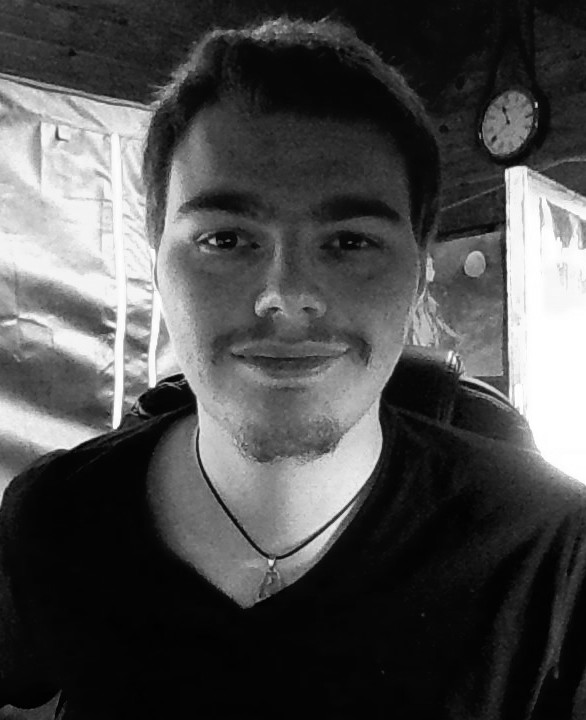
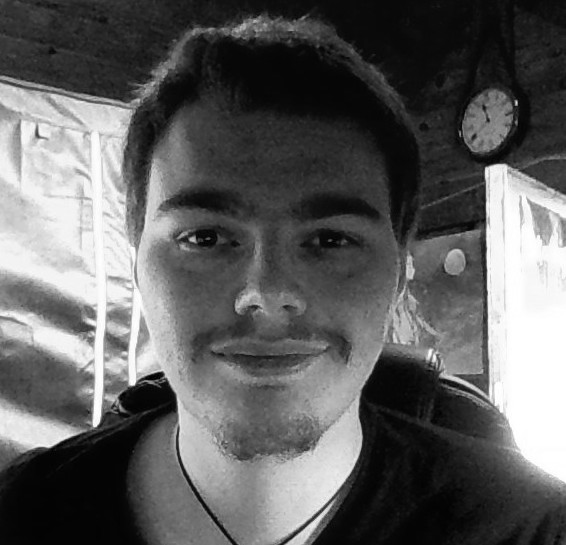
Ajout des ligne sous les titres , création de class pour les titres, nettoyage de certaines lignes inutiles , redimension de la photo, ajout de contenu

diff --git a/index.html b/index.html
@@ -13,9 +13,9 @@
 <body>
 	<div class="container" >
 		<div class="row" style="border: solid 1px grey;">
-			<div id="block1" class="col-xs-3 col-md-4 col-xl-3" style="background-color: rgb(255,193,7);">
-				<img src="photo.jpg" class="img-fluid rounded-circle img-responsive">
-				<h5>CONTACT</h5>
+			<div id="block1" class="col-xs-3 col-md-4 col-lg-3" style="background-color: rgb(255,193,7);"><!-- Bloc de gauche du CV !!!!!!! -->
+				<img src="photo.jpg" class="img-fluid rounded-circle img-responsive" style="width: 65%; margin-left: 15%">
+				<h3>CONTACT</h3>
 				<p>Adresse</br>
 				Marquise, France</br>
 				</br>
@@ -25,18 +25,86 @@
 				Site Web</br>
 				www.name.com</br>
 				</br>
-				<span class="glyphicon glyphicon-search" aria-hidden="true"></span>Skype</br>
+				Skype</br>
 				@nom_utilisateur 
 				</p>
-				<h5>A PROPOS DE MOI</h5>
+				<h3>A PROPOS DE MOI</h3>
 				<p>Voici un paragraphe qui parle de moi de façon générale</p>
 			</div>
-			<div id="block2" class="col-xs-9 col-md-8 col-xl-7" style="margin: 5%">
-			<h1><span class="color_theme">Florent</span> NOEL</h1>
-				<h3><span class="underline">Dévelo</span>ppeur web</h3>
-				<h4><i class="fas fa-graduation-cap color_theme"></i> Formation</h4>
-				<h4><i class="fas fa-briefcase color_theme"></i> Expérience professionelle</h4>
-				<h4><i class="fas fa-pencil-alt color_theme"></i> Recommandations</h4>
+			<div id="block2" class="col-xs-9 col-md-8 col-lg-9"> <!-- Bloc principal du CV (droite)!!!!!! -->
+				<div id="container_main">
+					<h1 class="titre1"><span class="color_theme">FLORENT</span> NOEL</h1>
+					<h6 style="color: rgb(66,66,66); font-size: 35px;"><span class="underline">Dévelo</span>ppeur web</h6>
+					<h4 style="margin-top: 100px;"><i class="fas fa-graduation-cap color_theme"></i> Formation</h4>
+					<div class="block_main">
+						<div class="block_contenu">
+								<div class="dates">
+									<i class="far fa-dot-circle color_theme "></i>
+										2016 - 2017</br>
+										Paris
+								</div>
+								<div class="contenu_formation">
+									<h4>OPENCLASSROOM</h4>
+									<h5>Junior Web développeur</h5>
+									<p>To aru no matjustu no index accelerator no railgun tsukio no matsu in namo index</p>
+								</div>
+						</div>
+						<div class="block_contenu">
+								<div class="dates">
+									<i class="fas fa-circle color_theme"></i>
+										2016 - 2017</br>
+										Paris
+								</div>
+								<div class="contenu_formation">
+									<h4>OPENCLASSROOM</h4>
+									<h5>Junior Web développeur</h5>
+									<p>To aru no matjustu no index accelerator no railgun tsukio no matsu in namo index</p>
+								</div>
+						</div>
+						<div class="block_contenu">
+								<div class="dates">
+									<i class="fas fa-circle color_theme"></i>
+										2016 - 2017</br>
+										Paris
+								</div>
+								<div class="contenu_formation">
+									<h4>OPENCLASSROOM</h4>
+									<h5>Junior Web développeur</h5>
+									<p>To aru no matjustu no index accelerator no railgun tsukio no matsu in namo index</p>
+								</div>
+						</div>
+					</div>
+					<h4><i class="fas fa-briefcase color_theme"></i> Expérience professionelle</h4>
+					<div class="block_main">
+						<div class="block_contenu">
+								<div class="dates">
+									<i class="far fa-dot-circle color_theme "></i>
+										2016 - 2017</br>
+										Paris
+								</div>
+								<div class="contenu_formation">
+									<h4>OPENCLASSROOM</h4>
+									<h5>Junior Web développeur</h5>
+									<p>To aru no matjustu no index accelerator no railgun tsukio no matsu in namo index</p>
+								</div>
+						</div>
+					</div>
+					<h4><i class="fas fa-pencil-alt color_theme"></i> Recommandations</h4>
+					<div class="block_main">
+						<div class="block_contenu">
+								<div class="dates">
+									<i class="far fa-dot-circle color_theme "></i>
+										2016 - 2017</br>
+										Paris
+								</div>
+								<div class="contenu_formation">
+									<h4>OPENCLASSROOM</h4>
+									<h5>Junior Web développeur</h5>
+									<p>To aru no matjustu no index accelerator no railgun tsukio no matsu in namo index</p>
+								</div>
+						</div>
+					</div>
+				</div>
 			</div>
 		</div>
 	</div>

diff --git a/style.css b/style.css
@@ -4,5 +4,36 @@
 }
 .underline
 {
-	text-decoration: underline rgb(255,193,7);
+	border-bottom: solid 2px rgb(255,193,7);
+}
+#container_main
+{
+	padding: 10%;
+}
+.titre1
+{
+	font-size: 55px;
+}
+.block_contenu
+{
+	display: flex;
+	justify-content: space-around;
+	margin-top: 20px;
+	padding-top: 20px;
+}
+.dates
+{
+	width: 25%;
+	display: flex;
+	justify-content: space-around;
+	margin-right: 20px;
+}
+.block_main
+{
+	border-top:solid 2px rgb(255,193,7);
+}
+h3
+{
+	background-color: rgb(33,33,33);
+	color: rgb(255,193,7);
 }
